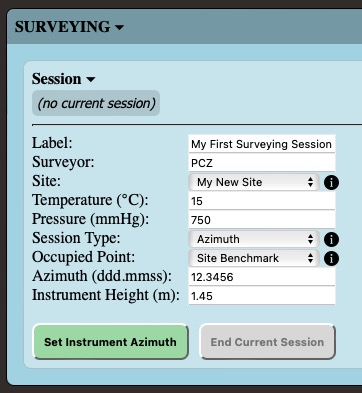
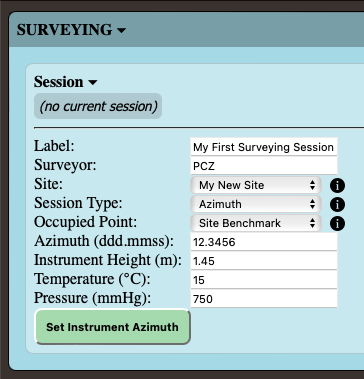
Update README for UI changes

diff --git a/README.md b/README.md
@@ -137,17 +137,17 @@ Add additional stations if you’re working with an existing site with multiple 
 4. Choose the site.
 5. Enter the current temperature and pressure. ShootPoints-Web handles atmospheric corrections automatically.
 6. Choose the session type:
-   * **Backsight**: You will set up on a pre-set station with known coordinates and shoot a backsight to a second pre-set station. ShootPoints-Web will calculate the instrument height and set the azimuth on the total station.
-     * Select the backsight station and enter the height of the prism pole.
    * **Azimuth**: You will set up on a pre-set station with known coordinates and aim the total station at a known landmark. ShooPoints-Web will set the azimuth on the total station.
      * Enter the azimuth to the known landmark and the height of the total station above the occupied point.
+   * **Backsight**: You will set up on a pre-set station with known coordinates and shoot a backsight to a second pre-set station. ShootPoints-Web will calculate the instrument height and set the azimuth on the total station.
+     * Select the backsight station and enter the height of the prism pole.
    * **Resection**: You will set up on an arbitrary point and shoot backsights to two pre-set stations with known coordinates. ShootPoints-Web will calculate the coordinates of the occupied point and set the azimuth on the total station.
      * Choose the two backsight stations and enter the height of the total station above the occupied point.
-7. Sight the total station on the prism or landmark and click the “Shoot Backsight” or “Set Instrument Azimuth” button. (The button label will change, depending on the session type.)  
-![Start New Session with Backsight form](img/NewSessionBacksight.jpg)
+7. Sight the total station on the prism or landmark and click the “Set Instrument Azimuth,” “Shoot Backsight,” or “Shoot Left Backsight” button. (The button label will change, depending on the session type.)  
 ![Start New Session with Azimuth form](img/NewSessionAzimuth.jpg)
+![Start New Session with Backsight form](img/NewSessionBacksight.jpg)
 ![Start New Session with Resection form](img/NewSessionResection.jpg)
-8. (*conditional*) If you’re starting a session by resection, sight on the prism at second backsight and click the “Shoot Backsight #2” button.
+8. (*conditional*) If you’re starting a session by resection, sight on the prism at second backsight and click the “Shoot Right Backsight” button.
 
 ## Create a new grouping:
 1. Select the appropriate geometry.
@@ -171,7 +171,7 @@ Continue taking shots, each of which will be saved to the current grouping. To b
 
 Note that any grouping shot with an “Isolated Point” geometry can logically only have one shot saved to it, so if you’re taking a series of these (such as is typical of end-of-day point elevations in a trench), you will need to create a new grouping for each shot. Though this sounds cumbersome, in practice it is a quick process and ensures that your data are marked consistently.
 
-## View progress:
+## Monitor progress:
 1. Clicking the map icon reveals a map showing the current surveying session.
 2. The latest unsaved shot is shown in red.
 3. Use familiar pinch and drag gestures to zoom and pan the map.
